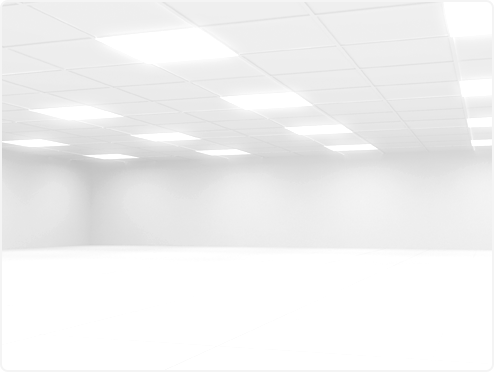
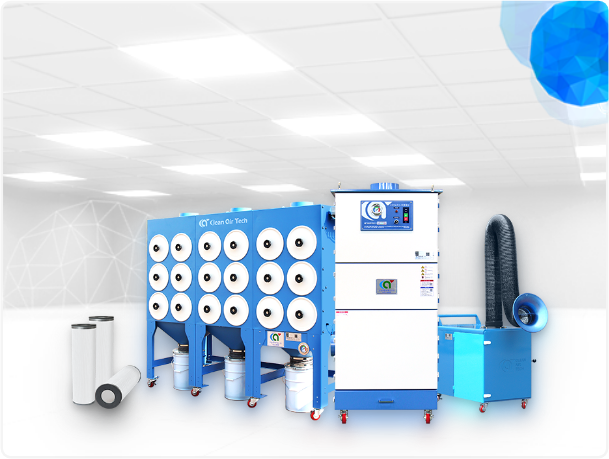
main상단이미지수정

Changed region(s): [[0.0911, 0.3844, 0.9109, 0.9462], [0.8198, 0.0, 1.0, 0.2366]]

diff --git a/css/main.css b/css/main.css
@@ -23,8 +23,8 @@
 .contentMajor .flexType3>li:hover{animation:updown 1s linear}
 .contentMajor .flexType3>li>a>h3{position:absolute;top:26px;left:32px;font-size:26px;font-weight:700;;letter-spacing:-0.52px;line-height:26px;}
 .contentMajor .flexType3>li>a>p{position:absolute;top:69px;left:32px;font-size:20px;font-weight:400;letter-spacing:-0.4px;line-height:26px;color: var(--black_1);}
-.contentMajor .flexType3>li:nth-child(1){width:494px;height:372px;;background:url(../images/main/mainbg1.png) no-repeat;color:var(--blue_7);}
-.contentMajor .flexType3>li:nth-child(2){background:url(../images/main/mainbg2.png) no-repeat;color:var(--blue_2);}
+.contentMajor .flexType3>li:nth-child(1){width:494px;height:372px;background:url(../images/main/mainbg1.png) no-repeat;background-size:cover;color:var(--blue_7);}
+.contentMajor .flexType3>li:nth-child(2){width:494px;height:372px;background:url(../images/main/mainbg2.png) no-repeat;background-size:cover;color:var(--blue_2);}
 
 .contentMajor .flexType4{display:flex;gap:14px;}
 .contentMajor .flexType4>li{box-sizing: border-box;min-width:0;flex-basis:240px;flex-shrink:0;height:180px;border-radius:8px;color:var(--white_1);}

diff --git a/css/sub_etc.css b/css/sub_etc.css
@@ -469,6 +469,7 @@
 .contentBox .mainProduct{display:flex;gap:20px;flex-wrap:wrap;}
 .contentBox .mainProduct>li{box-sizing:border-box;min-width:0;flex-shrink:0;width:490px;height:310px;;border:1px solid var(--gray_4);border-radius:8px;background:url(../images/sub/sub_etc/sub-03-05.png) bottom center no-repeat;}
 .contentBox .mainProduct>li{position:relative;z-index:1;}
+.contentBox .mainProduct>li a>img{position:absolute;z-index:1;bottom:10px;left:30px}
 .contentBox .mainProduct>li .cardBox2{position:absolute;top:42px;left:240px;z-index:1;min-width:248px;;padding-right:8px;}
 .contentBox .mainProduct>li .cardBox2>h4{margin-bottom:10px;;font-size:18px;font-weight:700;line-height:26px;color:var(--blue_7);}
 .contentBox .mainProduct>li .cardBox2>p{margin-bottom:7px;font-size:14px;font-weight:500;letter-spacing:-0.14px;line-height:18px;color:var(--black_0);}

diff --git a/css/sub_mobile.css b/css/sub_mobile.css
@@ -430,7 +430,7 @@
 .contentBox .mainProduct{flex-direction:column;gap:10px}
 .contentBox .mainProduct>li{width:100%;height:auto;background-position:center 120%}
 .contentBox .mainProduct>li>a{display:flex;align-items: flex-end;min-height:200px}
-.contentBox .mainProduct>li>a>img{width:25%;margin-left:28px;margin-bottom: 5%;}
+.contentBox .mainProduct>li>a>img{position:static;width:25%;margin-left:28px;margin-bottom: 5%;}
 .contentBox .mainProduct>li .cardBox2{top:10%;left:43%;min-width:0;}
 .contentBox .mainProduct>li .cardBox2>h4{line-height:21px;font-size:16px;}
 .contentBox .mainProduct>li .cardBox2>p{padding:8px 0 0 0;line-height:18px;font-weight:400;font-size:14px;}

diff --git a/sub-03-00-00.html b/sub-03-00-00.html
@@ -26,7 +26,7 @@
 <section id="contentsWrap">
     <div class="wrapper">
         <div class="locationState mb36">
-            <a href="#" class="iconHome"><span class="ir">home</span></a>
+            <a href="#"><img src="./images/sub/sub_etc/icon28.png" class="iconType1" alt="HOME" /></a>
             <span class="iconType3"><em class="gtTxt">&gt;</em></span>
             <div class="posRel">
                 <a href="#"><span class="iconText1">집진기</span></a>
